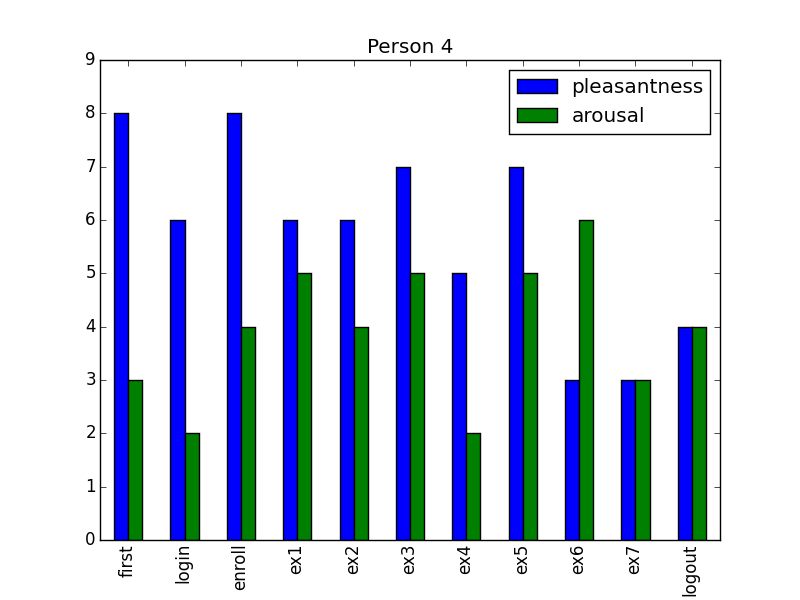
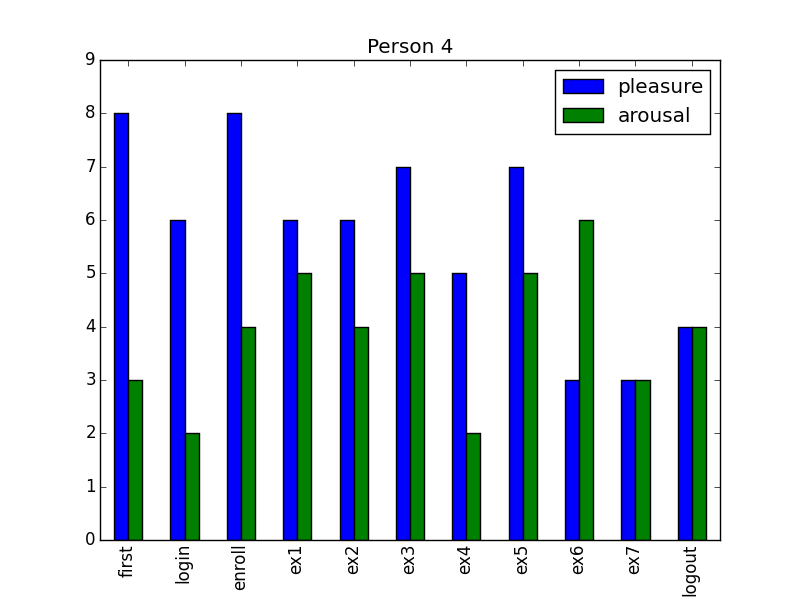
Ikke mere HCI for i dag

Changed region(s): [[0.625, 0.09, 0.875, 0.24]]

diff --git a/HCI/sections/introduktion.tex b/HCI/sections/introduktion.tex
@@ -1,4 +1,16 @@
 \chapter{Introduktion}\label{ch:intro}
-klh
-luhj
-jhklæjlæælkklklæ
+Inden for HCI har man tidligere fokuseret hovedsageligt på et produkts pragmatiske kvalitet. Det vil sige, dets evne til at lade brugeren opfylde \textit{do-goals}, hvilke beskriver hvad brugeren ønsker at gøre. Denne tilgang munder ud i \textit{Usability} begrebet. God \textit{usability} handler om at et system er effiktivt, nemt og sikkert at bruge. Computersystemer bliver altså tænkt på som værktøjer, der skal bruges til at løse opgaver.
+
+En anden tilgang kaldes User Experience \textit{UX}. Her fokuseres der på produktets hedoniske kvalitet frem for dets pragmatiske. Dette betyder at vi i stedet kigger på produktets evne til at opfylde \textit{be-goals}. I \cite{Hassenzahl:2008} beskriver Hazzenzahl disse som værende menneskelige behov en bruger ønsker at opfylde så som autonomi, stimulering og popularitet.
+
+Hazzenzahl beskriver UX som en momentær følelse opnået igennem interaktionen med et produkt. Ydermere, så kan opfyldelsen af \textit{do-goals} hjælpe os med at opfylde \textit{be-goals}. For eksempel, så kunne et \textit{do-goal} for det gamle Pacman være at gennemføre et niveau. Hvis dette er muligt, kunne det understøtte et \textit{be-goal}, der omhandler en positiv stimulering som følge af sejr. Det er dog muligt, at vores \textit{be-goals} ikke opfyldes selvom vores \textit{do-goals} gør. Et system er altså mere en bare summen af  dets enkelte dele. Derfor siger vi at UX tager en holistisk tilgang til produktevaluering. Der fokuseres på brugerens oplevelse med systemet, hvilket er det endelige udfald af alle de små designbeslutninger der ellers er blevet taget.  
+
+Definationen af UX er dog stadigvæk debateret. Samtidig er mange UX dimensioner blevet bragt op i litteraturen. I \cite{Bang2015} kategoriserer Bang disse dimensioner som relaterende sig til enten generel UX, indtryk, brug eller kontekst. Mange forskellige metoder er også blevet fremsat til at evaluere UX. 
+
+I denne rapport vil vi forsøge at anvende to UX metoder \textit{Affect Grid} og \textit{3E} til at evaluere hjemmesiden Codecademy \cite{Codecademy}. Hjemmesiden tilbyder diverse online kurser, der tages med henblik på at lære sig diverse programmeringssprog. Fokuset ligger dog på at evaluere metoderne, og ikke Codecademy i sig selv. 
+
+Rapporten er struktureret på følgende måde: I \cref{ch:met} redegøres der for vores valgte metoder. \cref{ch:evaproc} vil forklare vores brug af metoderne under en evaluering af Codecademy. \cref{ch:evalmet} evaluerer de to metoder. I \cref{ch:konk} konkluderes der på rapporten.
+
+
+
+   

diff --git a/HCI/sections/metoder.tex b/HCI/sections/metoder.tex
@@ -1,6 +1,23 @@
 \chapter{Metoder}\label{ch:met}
+I dette kapitel vil vi redegøre for hvilke UX metoder vi har valgt at bruge i vores evaluering af CodeAcademy. Vi har valgt at begge metoder skal være meget forskellige fra hinanden, så de kan give os forskellige perspektiver. Begge er funde igennem \textit{All About UX}\cite{AllAboutUX}.
+
+
 \section{Affect Grid}\label{sec:AG}
-\cite{AffectGrid}
+Vi vil gerne vide, hvordan brugeres oplevelse ændrer sig under interaktion med Code Academy. Vi har altså brug for en metode, der kan anvendes til at indsamle data flere gange under vores evaluering. 
+
+Under evaluering kan det dog være svært løbende at sætte sig ind i en bruger føler. Hvis evaluatoren hele tiden stiller dybdegående spørgsmål under evalueringen, risikerer vi at brugeren bliver trukket ud af interaktionen. Dette kommer til at have indflydelse på brugerens oplevelse af produktet. Det vil altså være bedst hvis brugen selv kunne angive hvordan de føler løbende under evalueringen. Helst uden at de skal tænke for meget over det. 
+
+Metoden vi vælger at anvende hedder Affect Grid. Den er udviklet inden for psykologien af James A. Russel samt Anna Weiss og Gerald A. Mendelsohn \cite{AffectGrid}. Her angiver brugeren selv deres følelsesmæssige tilstand, også kendt som \textit{affect}, på det såkaldte Affect Grid. Et blankt affect grid kan ses på \cref{fig:affectgrid}. Grid'et har en størrelse på 9*9 felter, X-aksen angiver fornøjelse(pleasure) og Y-aksen angiver ophidselse(arousal). Et 1 på X-aksen betyder stærk misfornøjelse, mens et 9 betyder stærk fornøjelse. Ligeledes betyder 1 på Y-aksen stærk søvnighed og 9 betyder stærk ophidelse. Hele metoden baserer sig på, at fornøjelse og ophidelse er uafhængige  fra hinanden. 
+
+\begin{figure}[h]
+\centering
+\includegraphics[width=0.6\textwidth]{affectgridbase.png}
+\caption{Blank Affect Grid}
+\label{fig:affectgrid}
+\end{figure}
+
+Ved anvendelse af dette grid kan en bruger nemt angive \textit{affect} ved at overveje deres nuværende fornøjelses- og ophidelsesniveau og derefter markere på gridet. Da dette ikke kræver meget af brugeren, regner vi med at der kan markeres flere gange under evalueringen, uden at brugeren trækkes ud af interaktionen. Derfor anvender vi Affect Grid til løbende at indsamle data om brugeres \textit{affect} under evalueringen.
+
 
 \section{3E}\label{sec:3E}
 

diff --git a/HCI/figures/heatmap.py b/HCI/figures/heatmap.py
@@ -14,7 +14,7 @@ def get_avg(key):
 
 df_avg = pandas.DataFrame()
 
-df_avg['pleasantness'] = get_avg('pleasantness')
+df_avg['pleasure'] = get_avg('pleasure')
 df_avg['arousal'] = get_avg('arousal')
 df_avg['name'] = ex_name['name']
 
@@ -23,7 +23,7 @@ df_all = df_all.append(arash)
 df_all = df_all.append(mikael)
 df_all = df_all.append(andreas)
 
-df_all[df_all.index > 5].plot(kind='hexbin', x='pleasantness', y='arousal', gridsize=9)
+df_all[df_all.index > 5].plot(kind='hexbin', x='pleasure', y='arousal', gridsize=9)
 plt.savefig('hexbin.png')
 
 
